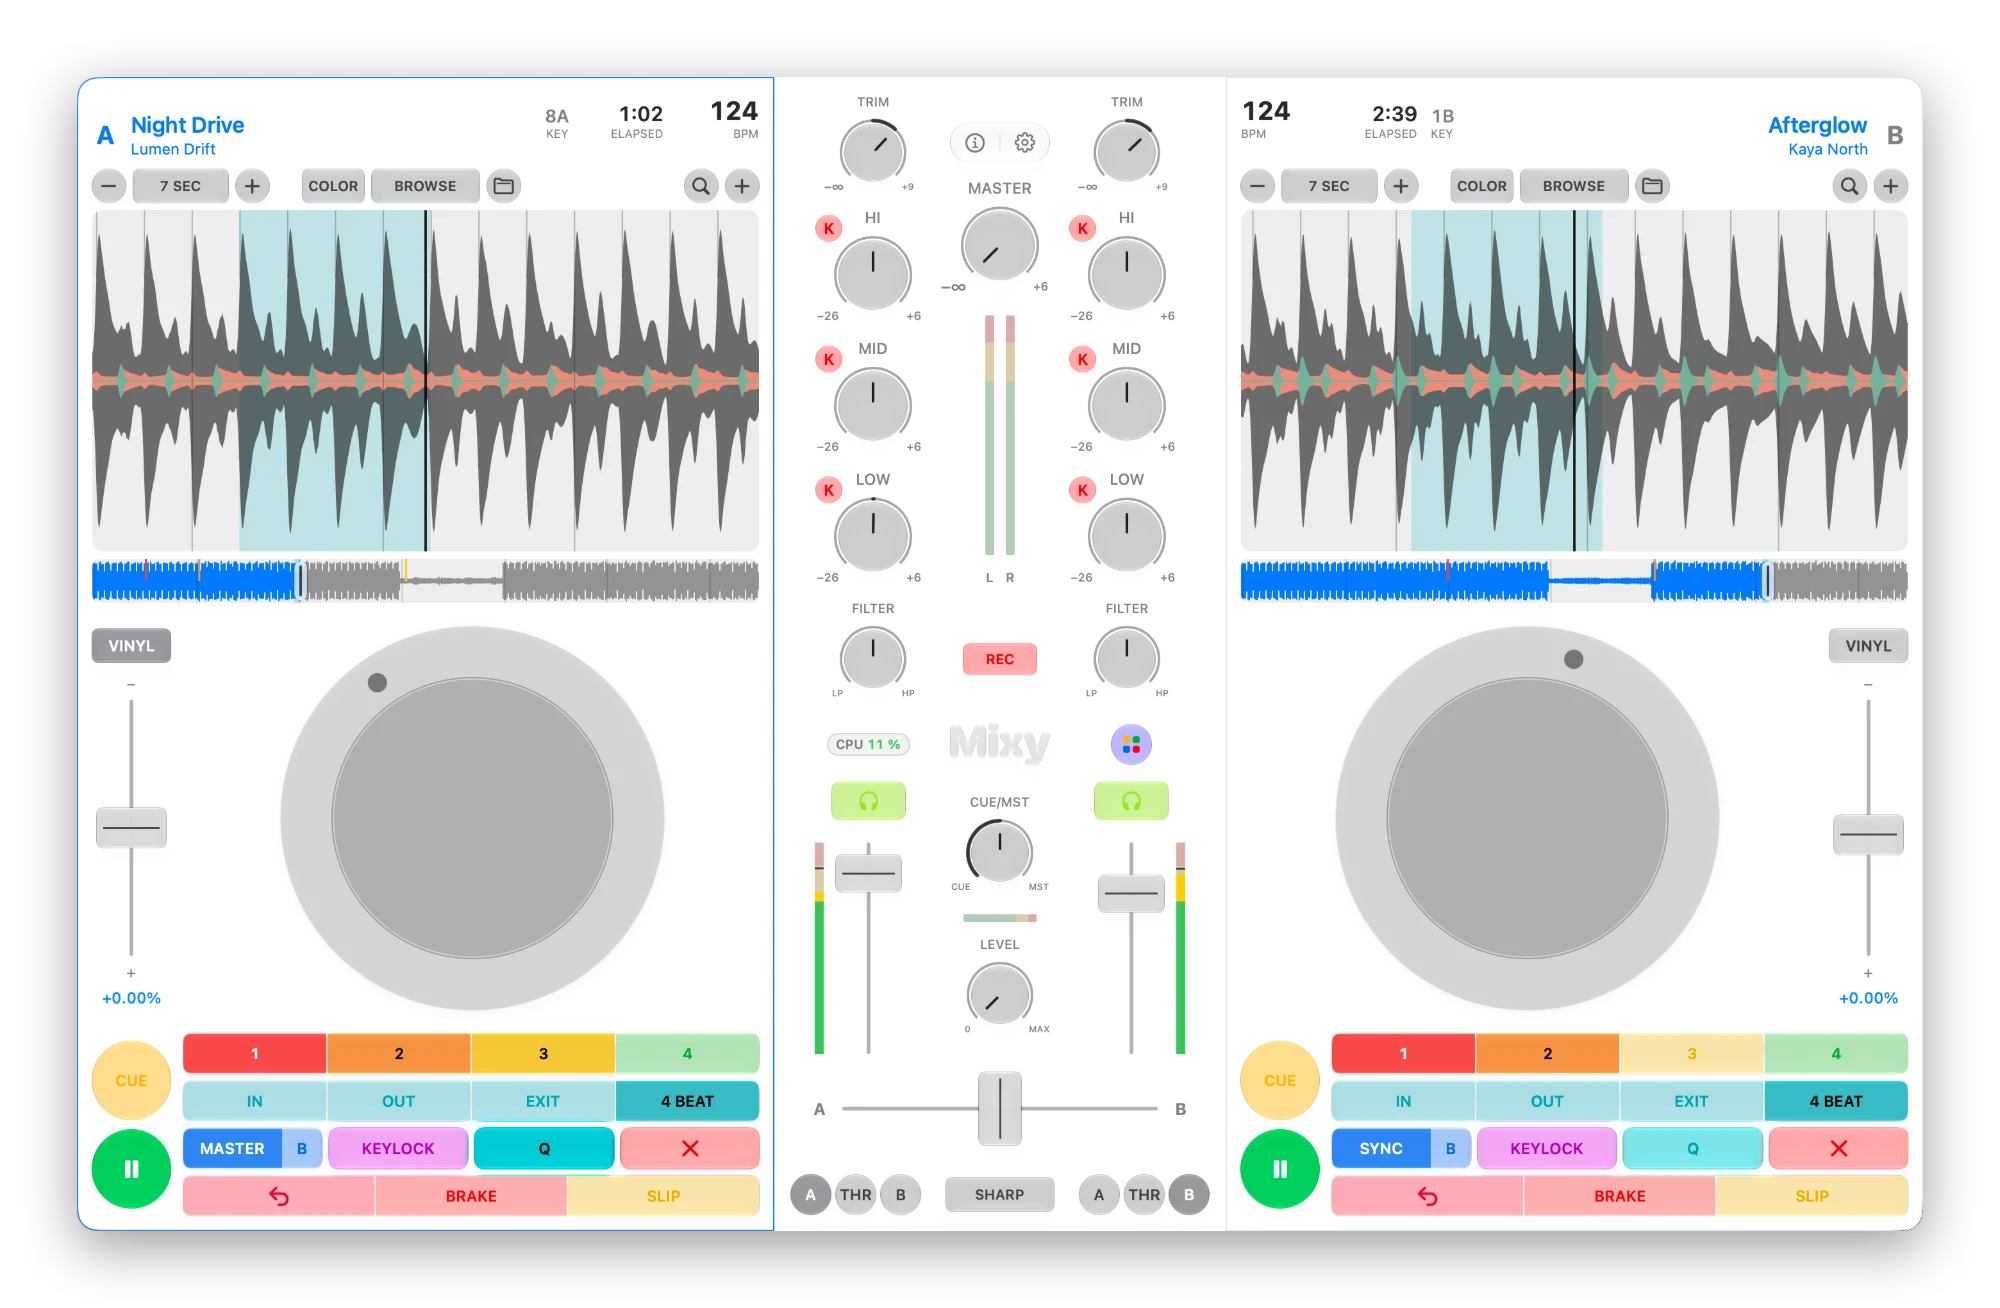
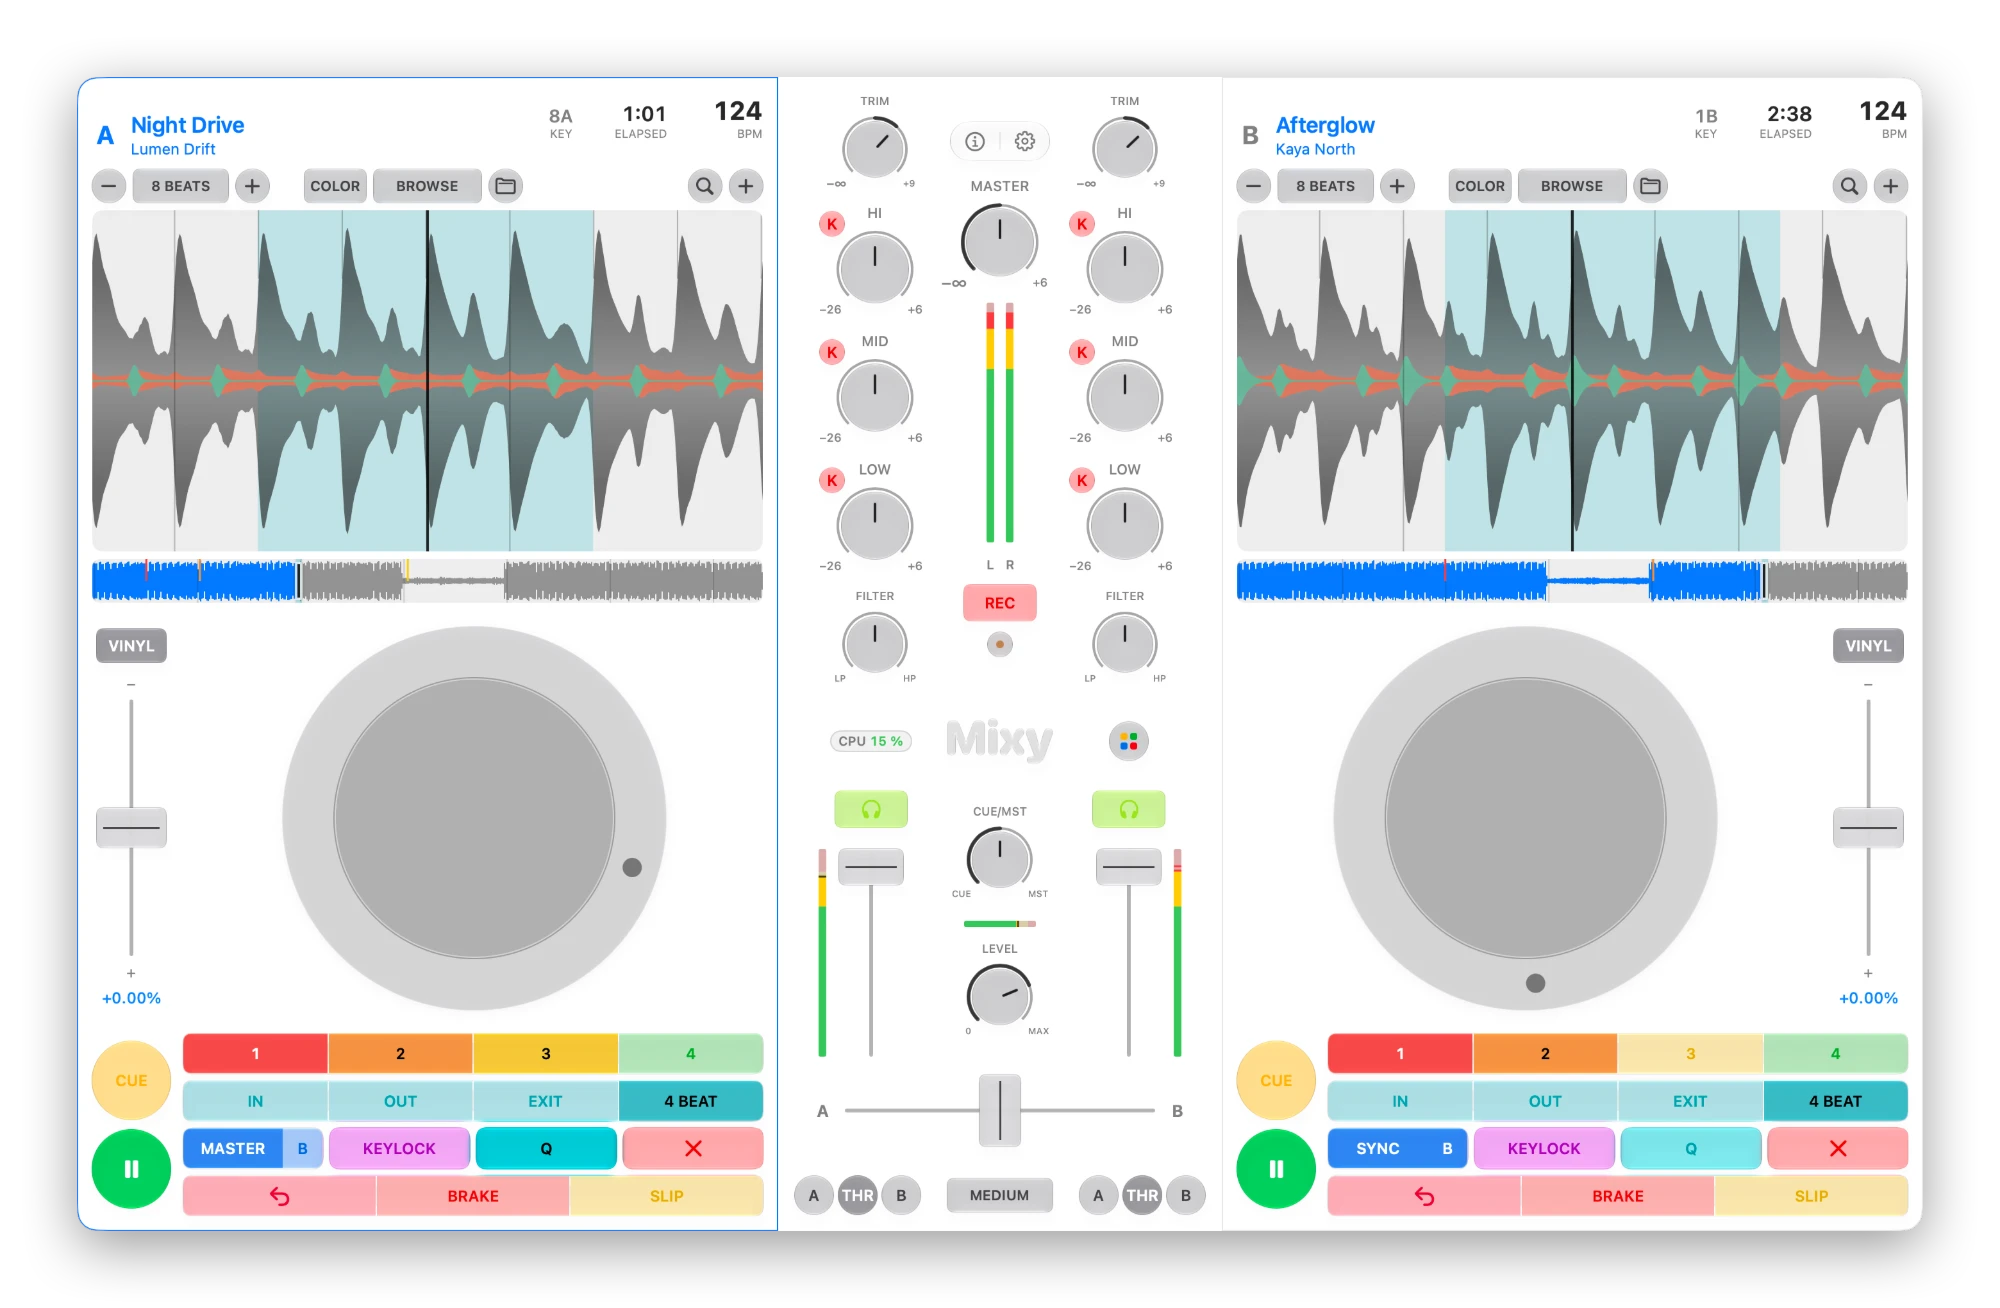
Mixy: new screenshots; two waveforms, accent color and the free classic layout sections
Claude-Session: https://claude.ai/code/session_01KuEoozSMi7F77NgTPBECaD

diff --git a/other/mixy/index.html b/other/mixy/index.html
@@ -41,7 +41,10 @@
             "https://airyaudio.com/other/mixy/images/decks-light.webp",
             "https://airyaudio.com/other/mixy/images/browse.webp",
             "https://airyaudio.com/other/mixy/images/pads.webp",
-            "https://airyaudio.com/other/mixy/images/around-jog.webp"
+            "https://airyaudio.com/other/mixy/images/around-jog.webp",
+            "https://airyaudio.com/other/mixy/images/waveforms.webp",
+            "https://airyaudio.com/other/mixy/images/accent.webp",
+            "https://airyaudio.com/other/mixy/images/classic.webp"
         ],
         "applicationCategory": "MultimediaApplication",
         "applicationSubCategory": "DJ software",
@@ -110,7 +113,7 @@
             <p class="cta-note">On the Mac App Store. Try every feature free for 14 days.</p>
             </div>
             <div class="hero-shot bare zoomable">
-                <img src="images/decks-dark.webp" width="2000" height="1308" alt="Mixy with both decks playing in color waveforms: deck A as master, deck B synced to it, and the mixer between them">
+                <img src="images/decks-dark.webp" width="2000" height="1308" alt="Mixy in Dark with both decks playing in color waveforms: deck A as master, deck B synced to it, and the mixer between them">
             </div>
         </div>
     </div>
@@ -162,7 +165,7 @@
     <section>
         <div class="wrap">
             <div class="showcase reveal">
-                <div class="shot bare zoomable"><img src="images/decks-light.webp" width="2000" height="1308" loading="lazy" alt="Mixy in Light: both decks' waveforms in color, with the beat grid and a 4-beat loop"></div>
+                <div class="shot bare zoomable"><img src="images/decks-light.webp" width="2000" height="1308" loading="lazy" alt="Mixy in Light with the CD player layout: color waveforms with the beat grid and a 4-beat loop, big CUE and Play buttons beside the pads"></div>
                 <div>
                     <span class="tag">Waveforms, BPM and Sync</span>
                     <h3>See the beat.</h3>
@@ -172,7 +175,7 @@
             </div>
 
             <div class="showcase flip reveal">
-                <div class="shot bare zoomable"><img src="images/browse.webp" width="2000" height="1308" loading="lazy" alt="Deck A shows its playlist with title, artist, BPM and time"></div>
+                <div class="shot bare zoomable"><img src="images/browse.webp" width="2000" height="1308" loading="lazy" alt="Deck A shows its playlist with title, artist, BPM and time, deck B its waveform, both with the controller layout"></div>
                 <div>
                     <span class="tag">Your music</span>
                     <h3>The playlist, right on the deck.</h3>
@@ -182,7 +185,17 @@
             </div>
 
             <div class="showcase reveal">
-                <div class="shot bare zoomable"><img src="images/pads.webp" width="2000" height="1308" loading="lazy" alt="Mixy in Light with big jog wheels and big hot cue and loop pads"></div>
+                <div class="shot bare zoomable"><img src="images/waveforms.webp" width="2000" height="1346" loading="lazy" alt="Both decks' waveforms across the top of the window, one above the other; deck A shows its music folders, deck B its playlist"></div>
+                <div>
+                    <span class="tag">Two waveforms</span>
+                    <h3>Both tracks, one above the other.</h3>
+                    <p>Show the two decks' waveforms across the top of the window, one above the other, with their beat grids. You see at a glance if the beats of the two tracks line up.</p>
+                    <p>Under them each deck keeps its own screen: the playlist, or your music folders as a tree.</p>
+                </div>
+            </div>
+
+            <div class="showcase flip reveal">
+                <div class="shot bare zoomable"><img src="images/pads.webp" width="2000" height="1308" loading="lazy" alt="Mixy in Light with big jog wheels and the pads layout: hot cues and loops as big pads"></div>
                 <div>
                     <span class="tag">Button layouts</span>
                     <h3>Your layout, your jog wheel.</h3>
@@ -191,14 +204,34 @@
                 </div>
             </div>
 
-            <div class="showcase flip reveal">
-                <div class="shot bare zoomable"><img src="images/around-jog.webp" width="2000" height="1308" loading="lazy" alt="Mixy with the Around the jog wheel layout: hot cues and loops above the jog wheel, CUE and Play below"></div>
+            <div class="showcase reveal">
+                <div class="shot bare zoomable"><img src="images/around-jog.webp" width="2000" height="1308" loading="lazy" alt="Mixy with the around the jog wheel layout: hot cues and loops above the jog wheel, CUE and Play below"></div>
                 <div>
                     <span class="tag">Hands on</span>
                     <h3>Your hands on the music.</h3>
                     <p>With VINYL on, two fingers on the jog wheel scratch, or circle them to turn it like a record. In CD mode the top bends the tempo while playing. Swipe the waveform, flick it and it glides on.</p>
                     <p>Hold a key and scroll to turn a knob, from anywhere on the screen.</p>
                     <p>Keyboard shortcuts for play, cue, hot cues, sync, loops and more, and the media keys play and pause the decks.</p>
+                </div>
+            </div>
+
+            <div class="showcase flip reveal">
+                <div class="shot bare zoomable"><img src="images/accent.webp" width="2000" height="1308" loading="lazy" alt="Mixy in Dark with an orange accent color on the knobs, the jog wheels and the faders"></div>
+                <div>
+                    <span class="tag">Your color</span>
+                    <h3>In your Mac's color.</h3>
+                    <p>Mixy takes the accent color you pick for your Mac in System Settings. The knobs, the jog wheels, the faders and the selected deck show it.</p>
+                    <p>Light or Dark, as your Mac is set, or pick one for Mixy in its Settings.</p>
+                </div>
+            </div>
+
+            <div class="showcase reveal">
+                <div class="shot bare zoomable"><img src="images/classic.webp" width="2000" height="1308" loading="lazy" alt="Mixy in Light without the upgrade: each deck with its playlist, the jog wheel, the pitch fader, big CUE and Play buttons and SEARCH"></div>
+                <div>
+                    <span class="tag">Mixy free</span>
+                    <h3>Start like on a club CD player.</h3>
+                    <p>Without the upgrade, each deck works like a classic club CD player: big CUE and Play buttons, SEARCH, the jog wheel, the pitch fader and the time, with the playlist above. The whole mixer, the headphones and your DJ controller work too.</p>
+                    <p>Fewer buttons, so beginners learn the basics first. With Mixy Upgrade, this classic layout stays as the last of the eight.</p>
                 </div>
             </div>
         </div>
